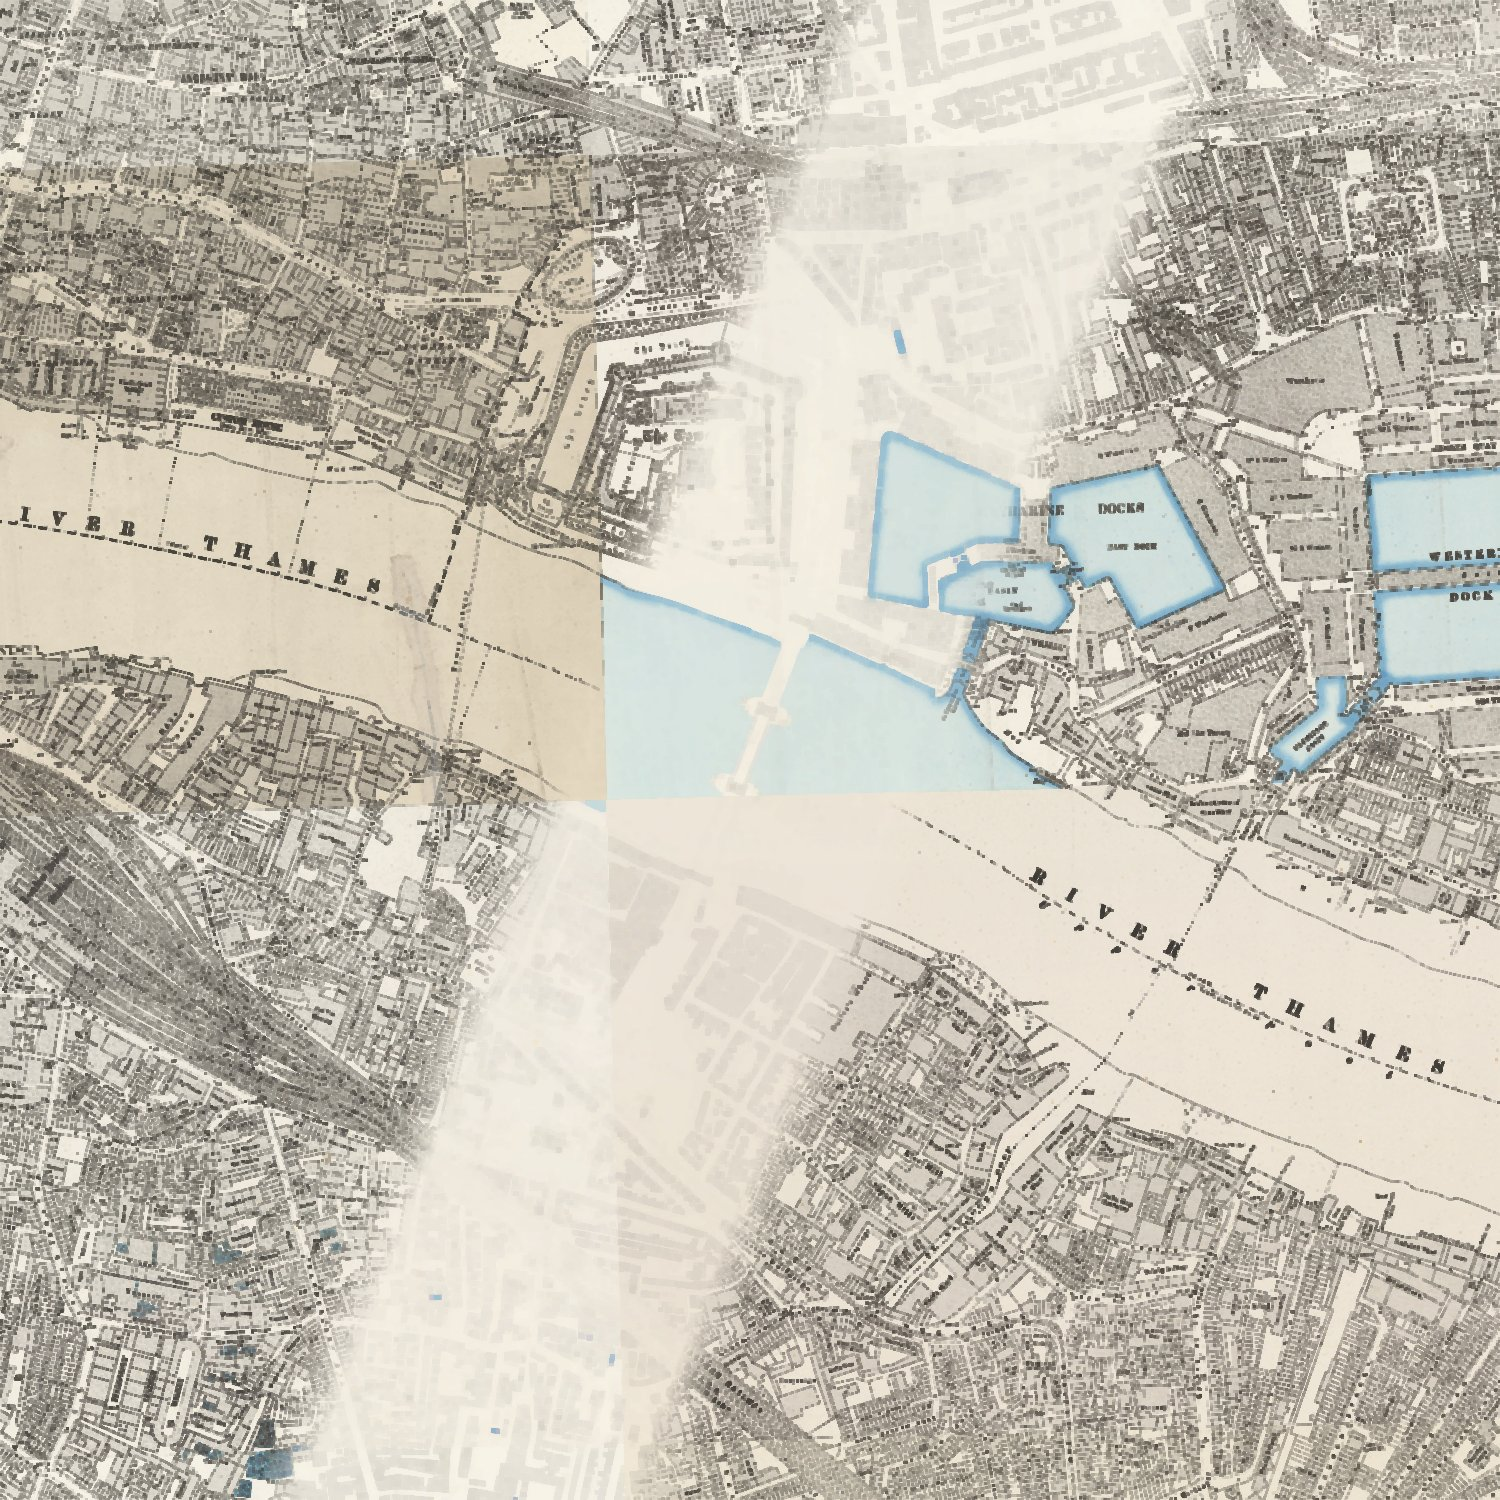
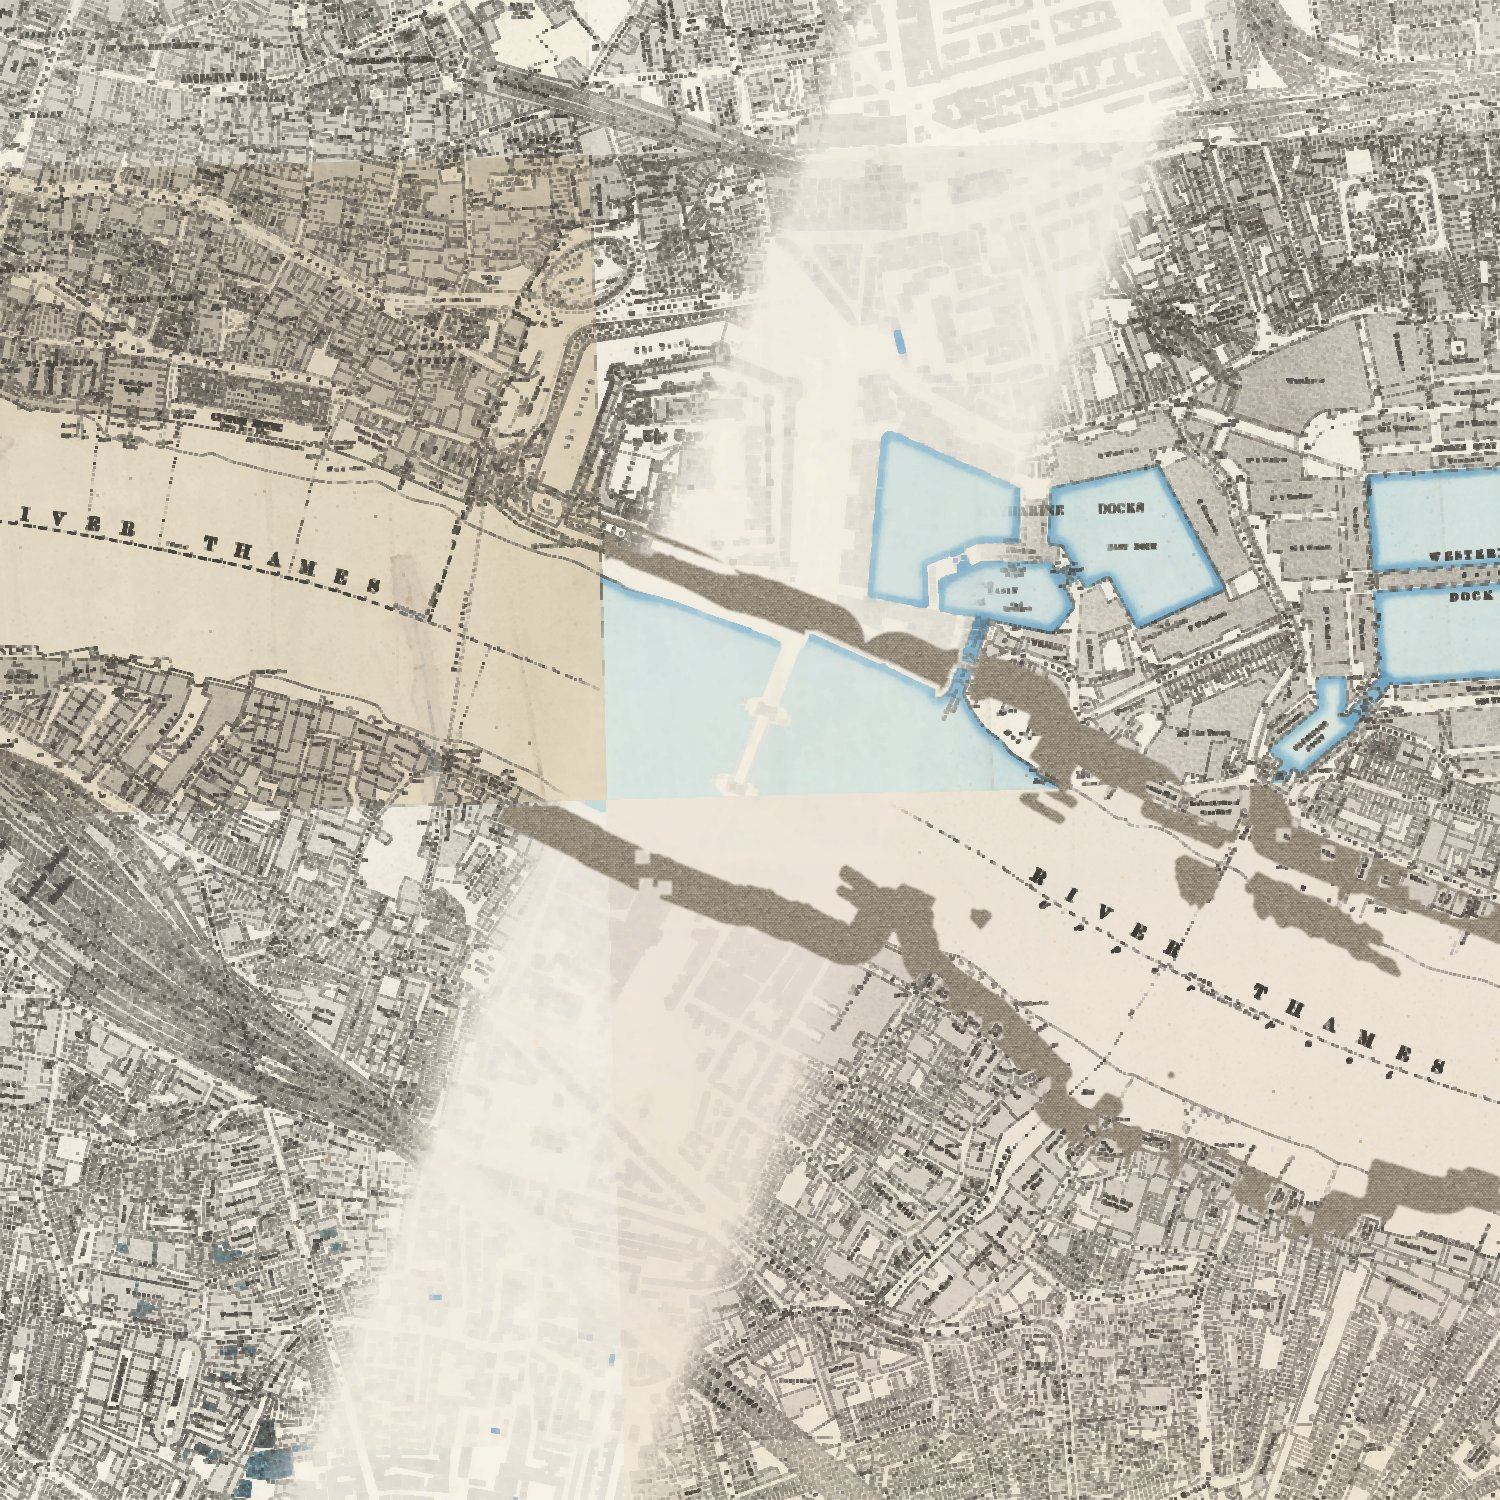
1890s sheet: one finish for all three tiers; open riverside paper becomes stone flags
fetch_1890s.finish() now works at any pixel size, and near.py's 0.15 m sheet uses it, so
the near field (what the end views actually see) loses its lettering too: a 5 m grey closing
within 150 m of the bridge axis. Open, ink-free paper on DTM land within 40 m of the river,
where the sheet draws the old foreshore but the ground is quay, read as a flat pale slab on
the south foreshore (hero-1890/1894): it becomes mid-tone 3 x 2 m stone flags. lo/ is
resized from the outer sheet as near.py's lite() does. near/ was rebuilt from the cached NLS
z20 tiles only (heights and aerial untouched).

diff --git a/scripts/history/fetch_1890s.py b/scripts/history/fetch_1890s.py
@@ -1,6 +1,6 @@
 """Mosaic the NLS OS London Town Plan (1893-96) tiles onto the terrain's OSGB grid.
 
-uv run --with pyproj --with pillow --with numpy python scripts/history/fetch_1890s.py  ->  web/public/terrain/tower-bridge/color-1890s.jpg
+uv run --with pyproj --with pillow --with numpy --with scipy python scripts/history/fetch_1890s.py  ->  web/public/terrain/tower-bridge/color-1890s.jpg
 Same bbox and 1 m pixels as color.jpg (row 0 north), so Terrain.jsx can swap it in for years before 1950.
 Tiles: OS London Five-foot to the mile 1893-96, "Reproduced with the permission of the National Library of Scotland"
 (CC-BY, https://maps.nls.uk/copyright.html); credit it on screen with a link to https://maps.nls.uk/.
@@ -12,8 +12,9 @@ from pathlib import Path
 import urllib.request
 
 import numpy as np
-from PIL import Image, ImageFilter
+from PIL import Image
 from pyproj import Transformer
+from scipy import ndimage
 
 ROOT = Path(__file__).resolve().parents[2]
 OUT = ROOT / "web/public/terrain/tower-bridge"
@@ -59,28 +60,63 @@ def osgb_mosaic(px=1.0):
     return out, (x1 - x0 + 1) * (y1 - y0 + 1)
 
 
-def corridor(h, w, near=150.0, feather=50.0):
-    """1 within `near` m of the bridge axis (out to the bbox ends), 0 past near + feather: the ground the end views see."""
+def grid(bbox, shape):
+    """The scene's u (across the bridge axis, bareEarth.js frame) and E, N at each pixel centre of an OSGB bbox, row 0 north."""
     meta = json.loads((OUT / "meta.json").read_text())
     oE, oN = meta["origin_osgb"][:2]
     t = math.radians(meta["bridge_axis_deg"])
-    x = (np.arange(w) + 0.5) + BBOX[0] - oE
-    z = oN - (BBOX[3] - (np.arange(h) + 0.5))
-    X, Z = np.meshgrid(x, z)
-    u = np.abs(X * math.cos(t) + Z * math.sin(t))  # across the axis (bareEarth.js frame)
-    return np.clip(1 - (u - near) / feather, 0, 1)[..., None]
+    h, w = shape
+    E = bbox[0] + (np.arange(w) + 0.5) * (bbox[2] - bbox[0]) / w
+    N = bbox[3] - (np.arange(h) + 0.5) * (bbox[3] - bbox[1]) / h
+    E, N = np.meshgrid(E, N)
+    return (E - oE) * math.cos(t) + (oN - N) * math.sin(t), E, N, meta
+
+
+def finish(img, bbox, ink=3):
+    """The draped sheet from a raw mosaic (uint8 RGB on the OSGB bbox, row 0 north), at any pixel size.
+
+    Ink lines are ~1 px, so an `ink` px min filter thickens them to survive the mipmaps seen from orbit. Near the bridge
+    the camera sits low, so the lettering read as print on the ground and the ramps: within 150 m of the axis (feathered
+    over 50 m) a 5 m grey closing (max then min) wipes ink thinner than 5 m and keeps the water and block tints. Open
+    paper by today's river, where the sheet draws the old foreshore or a blank wharf yard but the ground is quay, read
+    as a flat pale slab (south foreshore, hero-1890): it becomes stone flags."""
+    h, w = img.shape[:2]
+    px = (bbox[2] - bbox[0]) / w  # m per pixel
+    m = lambda metres: max(1, round(metres / px))
+    u, E, N, meta = grid(bbox, (h, w))
+    inked = ndimage.minimum_filter(img, (ink, ink, 1)).astype(float)
+    clean = ndimage.grey_closing(img, (m(5), m(5), 1)).astype(float)
+    a = np.clip(1 - (np.abs(u) - 150) / 50, 0, 1)[..., None]
+    out = clean * a + inked * (1 - a)
+
+    rgb = np.asarray(Image.open(OUT / "bare.png").convert("RGB")).astype(float)  # 1 m, the outer bbox
+    ground = meta["min_h"] + (rgb[..., 0] * 256 + rgb[..., 1]) / 65535 * (meta["max_h"] - meta["min_h"])
+    bed, _ = ndimage.label(ground < meta["water_h"] - 1.5)  # the carved bed (water_h - 2) and low pits such as the Scoop
+    river = bed == np.bincount(bed.ravel())[1:].argmax() + 1  # the river is the largest
+    river = ndimage.distance_transform_edt(~river) < 40
+    ob = meta["bbox_osgb"]
+    r = np.clip((ob[3] - N).astype(int), 0, ground.shape[0] - 1)
+    c = np.clip((E - ob[0]).astype(int), 0, ground.shape[1] - 1)
+    # warm paper (not the pale blue-green water) once thin ink is closed away, open for 9 m (not a street between blocks)
+    paper = (clean.min(-1) > 200) & (np.ptp(clean, -1) < 40) & (clean[..., 1] <= clean[..., 0])
+    paper = ndimage.minimum_filter(paper, m(9))
+    q = ndimage.gaussian_filter(((ground[r, c] >= meta["water_h"]) & river[r, c] & paper).astype(float), m(1))[..., None]
+
+    # stone flags 3 x 2 m in courses, each a little lighter or darker, with dark joints; mid-tone so the era grade draws
+    # weathered stone, not paper
+    rng = np.random.default_rng(1890)
+    fu, fv = (E - ob[0]) / 3, (ob[3] - N) / 2
+    fu = fu + (fv.astype(int) % 2) * 0.5
+    flag = rng.normal(0, 8, (int(fv.max()) + 1, int(fu.max()) + 1))[fv.astype(int), fu.astype(int)]
+    joint = ((fv % 1 < max(px, 0.15) / 2) | (fu % 1 < max(px, 0.15) / 3)) * -14.0
+    stone = np.clip(np.array([160.0, 150, 134]) + (flag + joint)[..., None], 0, 255)
+    return (stone * q + out * (1 - q)).round().astype(np.uint8)
 
 
 def main():
     out, n = osgb_mosaic()
-    im = Image.fromarray(out)
-    # ink lines are ~1 px; a 3 px min filter thickens them so they survive the mipmaps seen from orbit
-    inked = np.asarray(im.filter(ImageFilter.MinFilter(3)), float)
-    # near the bridge the camera sits low, so the sheet's lettering read as print on the ground and the ramps:
-    # a 5 px grey closing (max then min) wipes ink thinner than 5 m, keeping the water and block tints
-    clean = np.asarray(im.filter(ImageFilter.MaxFilter(5)).filter(ImageFilter.MinFilter(5)), float)
-    m = corridor(*out.shape[:2])
-    Image.fromarray((clean * m + inked * (1 - m)).round().astype(np.uint8)).save(OUT / "color-1890s.jpg", quality=85)
+    img = finish(out, BBOX)
+    Image.fromarray(img).save(OUT / "color-1890s.jpg", quality=85)
     print(f"{n} tiles -> {OUT / 'color-1890s.jpg'}")
 
 

diff --git a/scripts/terrain/near.py b/scripts/terrain/near.py
@@ -19,17 +19,21 @@ demolished or edited since (and the carved river, banks and bridge cut from buil
 import io
 import json
 import math
+import sys
 from concurrent.futures import ThreadPoolExecutor
 from pathlib import Path
 
 import httpx
 import numpy as np
 import tifffile
-from PIL import Image, ImageFilter
+from PIL import Image
 from pyproj import Transformer
 from scipy import ndimage
 
 from build import CACHE, OUT, dsm
+
+sys.path.append(str(Path(__file__).resolve().parents[1] / "history"))
+from fetch_1890s import finish  # noqa: E402
 
 NEAR = (533370, 180040, 533970, 180640)  # 600 m: the bridge, both approaches, the Tower of London and Shad Thames
 RES = 0.5  # m per height pixel
@@ -202,8 +206,8 @@ def main():
     img, nimg = xyz(ESRI, ESRI_Z, "esri", IMG_PX)
     q_img = save_jpg(img, near / "color.jpg", 82)
     old, ntiles = xyz(NLS, NLS_Z, "nls", IMG_PX)
-    # ink lines are ~1 px; a 3 px min filter keeps them through the mipmaps, as scripts/history/fetch_1890s.py does
-    q_old = save_jpg(old.filter(ImageFilter.MinFilter(3)), near / "color-1890s.jpg", 82)
+    # the outer sheet's finish (thickened ink; no lettering or blank paper by the bridge): scripts/history/fetch_1890s.py
+    q_old = save_jpg(Image.fromarray(finish(np.asarray(old), NEAR)), near / "color-1890s.jpg", 82)
 
     fine_share = round(float(1 - keep.mean()), 3)
     ea22 = "Open Government Licence v3.0. Contains Environment Agency information © Environment Agency copyright and/or database right 2022."
